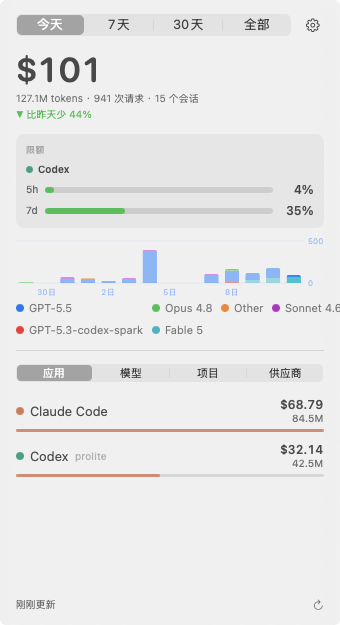
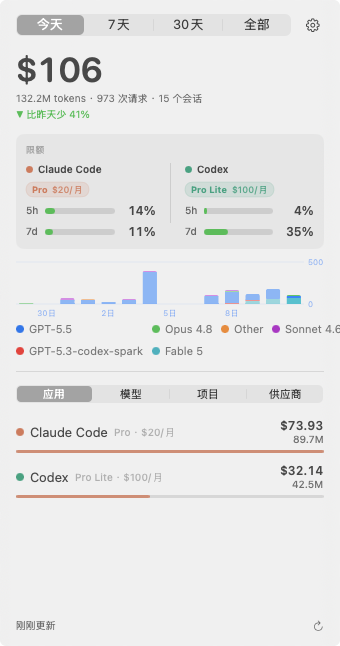
feat: subscription plan badges — Claude (Pro/Max) + Codex (Go/Plus/Pro Lite/Pro) tier & price next to each app; Codex tier from local auth.json JWT; v1.3.0

diff --git a/Sources/Tally/Engine/PlanCatalog.swift b/Sources/Tally/Engine/PlanCatalog.swift
@@ -1,0 +1,43 @@
+import Foundation
+
+/// A subscription tier and its monthly price, for the "what plan are you on"
+/// badge. Prices are USD/month from each vendor's public pricing (2026).
+struct PlanInfo: Sendable, Equatable {
+    let label: String
+    let monthlyUSD: Int?   // nil = custom / unknown (Enterprise etc.)
+}
+
+enum PlanCatalog {
+    /// Claude subscription, from the Keychain OAuth credentials
+    /// (`subscriptionType` + `rateLimitTier`).
+    static func claude(subscriptionType: String?, rateLimitTier: String?) -> PlanInfo? {
+        guard let sub = subscriptionType?.lowercased(), !sub.isEmpty else { return nil }
+        let tier = (rateLimitTier ?? "").lowercased()
+        switch sub {
+        case "free": return PlanInfo(label: "Free", monthlyUSD: 0)
+        case "pro": return PlanInfo(label: "Pro", monthlyUSD: 20)
+        case "max":
+            if tier.contains("20x") { return PlanInfo(label: "Max 20×", monthlyUSD: 200) }
+            if tier.contains("5x") { return PlanInfo(label: "Max 5×", monthlyUSD: 100) }
+            return PlanInfo(label: "Max", monthlyUSD: 100)
+        case "team": return PlanInfo(label: "Team", monthlyUSD: 30)
+        case "enterprise": return PlanInfo(label: "Enterprise", monthlyUSD: nil)
+        default: return PlanInfo(label: sub.capitalized, monthlyUSD: nil)
+        }
+    }
+
+    /// ChatGPT / Codex plan, from the id_token's `chatgpt_plan_type`.
+    static func codex(planType: String?) -> PlanInfo? {
+        guard let p = planType?.lowercased(), !p.isEmpty, p != "unknown" else { return nil }
+        switch p {
+        case "free": return PlanInfo(label: "Free", monthlyUSD: 0)
+        case "go": return PlanInfo(label: "Go", monthlyUSD: 8)
+        case "plus": return PlanInfo(label: "Plus", monthlyUSD: 20)
+        case "prolite", "pro_lite", "pro-lite": return PlanInfo(label: "Pro Lite", monthlyUSD: 100)
+        case "pro": return PlanInfo(label: "Pro", monthlyUSD: 200)
+        case "business", "team": return PlanInfo(label: "Business", monthlyUSD: 30)
+        case "enterprise": return PlanInfo(label: "Enterprise", monthlyUSD: nil)
+        default: return PlanInfo(label: p.capitalized, monthlyUSD: nil)
+        }
+    }
+}

diff --git a/Sources/Tally/Views/PopoverView.swift b/Sources/Tally/Views/PopoverView.swift
@@ -126,13 +126,15 @@ struct PopoverView: View {
                     .kerning(0.6)
                 HStack(alignment: .top, spacing: 14) {
                     if let claude {
-                        QuotaColumn(name: "Claude Code", colorHex: "#D97757", quota: claude)
+                        QuotaColumn(name: "Claude Code", colorHex: "#D97757",
+                                    quota: claude, plan: store.claudePlan)
                     }
                     if claude != nil && codex != nil {
-                        Divider().frame(height: 52)
+                        Divider().frame(height: 60)
                     }
                     if let codex {
-                        QuotaColumn(name: "Codex", colorHex: "#10A37F", quota: codex)
+                        QuotaColumn(name: "Codex", colorHex: "#10A37F",
+                                    quota: codex, plan: store.codexPlan)
                     }
                 }
             }
@@ -335,26 +337,54 @@ private struct BreakdownRowView: View {
     }
 }
 
-/// One app's rate limits: name header + big 5h and 7d gauges, stacked.
+/// One app's rate limits: name + plan badge header, then big 5h/7d gauges.
 private struct QuotaColumn: View {
     let name: String
     let colorHex: String
     let quota: CodexQuota
+    let plan: PlanInfo?
 
     var body: some View {
+        let tint = Color(hex: colorHex)
         VStack(alignment: .leading, spacing: 6) {
             HStack(spacing: 5) {
                 Circle()
-                    .fill(Color(hex: colorHex))
+                    .fill(tint)
                     .frame(width: 7, height: 7)
                 Text(name)
                     .font(.caption.weight(.semibold))
                     .lineLimit(1)
             }
+            if let plan {
+                PlanBadge(plan: plan, tint: tint)
+            }
             QuotaGauge(label: "5h", percent: quota.primaryPercent)
             QuotaGauge(label: "7d", percent: quota.secondaryPercent)
         }
         .frame(maxWidth: .infinity, alignment: .leading)
+    }
+}
+
+/// "Pro · $20/mo" pill — the quiet flex.
+private struct PlanBadge: View {
+    let plan: PlanInfo
+    let tint: Color
+
+    var body: some View {
+        HStack(spacing: 4) {
+            Text(plan.label)
+                .font(.system(size: 9, weight: .bold))
+            if let price = Formatters.planPrice(plan) {
+                Text(price)
+                    .font(.system(size: 9, weight: .medium))
+                    .opacity(0.85)
+            }
+        }
+        .padding(.horizontal, 6)
+        .padding(.vertical, 2)
+        .foregroundStyle(tint)
+        .background(tint.opacity(0.14), in: Capsule())
+        .overlay(Capsule().stroke(tint.opacity(0.28), lineWidth: 0.5))
     }
 }
 

diff --git a/Sources/Tally/Engine/ClaudeQuotaFetcher.swift b/Sources/Tally/Engine/ClaudeQuotaFetcher.swift
@@ -6,42 +6,59 @@ import Security
 /// Claude Code already stores in the Keychain. This is Tally's only network
 /// call and can be disabled in Settings.
 enum ClaudeQuotaFetcher {
-    static func fetch() async -> CodexQuota? {
-        guard let token = accessToken() else { return nil }
+    /// Returns the live 5h/weekly quota and the subscription plan. The plan is
+    /// available from the stored credentials even when the network call fails.
+    static func fetch() async -> (quota: CodexQuota?, plan: PlanInfo?) {
+        let creds = credentials()
+        let plan = PlanCatalog.claude(subscriptionType: creds?.subscriptionType,
+                                      rateLimitTier: creds?.rateLimitTier)
+        guard let token = creds?.token else { return (nil, plan) }
+
         var request = URLRequest(url: URL(string: "https://api.anthropic.com/api/oauth/usage")!)
         request.timeoutInterval = 10
         request.setValue("Bearer \(token)", forHTTPHeaderField: "Authorization")
         request.setValue("oauth-2025-04-20", forHTTPHeaderField: "anthropic-beta")
         guard let (data, response) = try? await URLSession.shared.data(for: request),
-              (response as? HTTPURLResponse)?.statusCode == 200 else { return nil }
+              (response as? HTTPURLResponse)?.statusCode == 200 else { return (nil, plan) }
 
         struct Usage: Decodable {
             struct Window: Decodable { let utilization: Double? }
             let five_hour: Window?
             let seven_day: Window?
         }
-        guard let usage = try? JSONDecoder().decode(Usage.self, from: data) else { return nil }
-        return CodexQuota(
+        guard let usage = try? JSONDecoder().decode(Usage.self, from: data) else { return (nil, plan) }
+        let quota = CodexQuota(
             primaryPercent: usage.five_hour?.utilization ?? 0,
             secondaryPercent: usage.seven_day?.utilization ?? 0,
             planType: nil,
             asOf: Date()
         )
+        return (quota, plan)
     }
 
     // MARK: - Credentials
 
-    private static func accessToken() -> String? {
+    private struct Credentials {
+        let token: String?
+        let subscriptionType: String?
+        let rateLimitTier: String?
+    }
+
+    private static func credentials() -> Credentials? {
         let json = keychainCredentials() ?? fileCredentials()
         guard let json,
               let creds = try? JSONSerialization.jsonObject(with: json) as? [String: Any],
-              let oauth = creds["claudeAiOauth"] as? [String: Any],
-              let token = oauth["accessToken"] as? String else { return nil }
+              let oauth = creds["claudeAiOauth"] as? [String: Any] else { return nil }
+        var token = oauth["accessToken"] as? String
         if let expiresAt = oauth["expiresAt"] as? Double,
            Date(timeIntervalSince1970: expiresAt / 1000) < Date() {
-            return nil
+            token = nil
         }
-        return token
+        return Credentials(
+            token: token,
+            subscriptionType: oauth["subscriptionType"] as? String,
+            rateLimitTier: oauth["rateLimitTier"] as? String
+        )
     }
 
     private static func keychainCredentials() -> Data? {

diff --git a/Sources/Tally/Engine/CodexAuthReader.swift b/Sources/Tally/Engine/CodexAuthReader.swift
@@ -1,0 +1,34 @@
+import Foundation
+
+/// Reads the Codex plan tier from ~/.codex/auth.json by decoding the
+/// id_token JWT's `chatgpt_plan_type` claim. Purely local, no network.
+enum CodexAuthReader {
+    static func plan() -> PlanInfo? {
+        let url = FileManager.default.homeDirectoryForCurrentUser
+            .appendingPathComponent(".codex/auth.json")
+        guard let data = try? Data(contentsOf: url),
+              let root = try? JSONSerialization.jsonObject(with: data) as? [String: Any]
+        else { return nil }
+
+        var idToken: String?
+        if let tokens = root["tokens"] as? [String: Any] {
+            idToken = tokens["id_token"] as? String
+        } else if let s = root["tokens"] as? String {
+            idToken = s
+        }
+        guard let jwt = idToken else { return nil }
+
+        let parts = jwt.split(separator: ".")
+        guard parts.count >= 2 else { return nil }
+        var b64 = String(parts[1])
+            .replacingOccurrences(of: "-", with: "+")
+            .replacingOccurrences(of: "_", with: "/")
+        while b64.count % 4 != 0 { b64 += "=" }
+
+        guard let payload = Data(base64Encoded: b64),
+              let claims = try? JSONSerialization.jsonObject(with: payload) as? [String: Any],
+              let auth = claims["https://api.openai.com/auth"] as? [String: Any]
+        else { return nil }
+        return PlanCatalog.codex(planType: auth["chatgpt_plan_type"] as? String)
+    }
+}

diff --git a/Sources/Tally/Engine/StatsStore.swift b/Sources/Tally/Engine/StatsStore.swift
@@ -9,6 +9,8 @@ final class StatsStore: ObservableObject {
     @Published var period: Period = .today
     @Published var isRefreshing = false
     @Published var claudeQuota: CodexQuota?
+    @Published var claudePlan: PlanInfo?
+    @Published var codexPlan: PlanInfo?
 
     @AppStorage("refreshInterval") var refreshInterval: Int = 60
     @AppStorage("fetchClaudeQuota") var fetchClaudeQuota: Bool = true
@@ -38,9 +40,9 @@ final class StatsStore: ObservableObject {
         isRefreshing = true
         if fetchClaudeQuota {
             Task { [weak self] in
-                if let quota = await ClaudeQuotaFetcher.fetch() {
-                    self?.claudeQuota = quota
-                }
+                let (quota, plan) = await ClaudeQuotaFetcher.fetch()
+                if let quota { self?.claudeQuota = quota }
+                if let plan { self?.claudePlan = plan }
             }
         }
         Task.detached(priority: .utility) { [indexer, pricingLoaded] in
@@ -53,6 +55,7 @@ final class StatsStore: ObservableObject {
                 await indexer.updatePricing(pricing)
             }
             let snap = await indexer.scan()
+            let codexPlan = CodexAuthReader.plan()
             await MainActor.run { [weak self] in
                 guard let self else { return }
                 self.snapshot = snap
@@ -60,6 +63,7 @@ final class StatsStore: ObservableObject {
                     self.providers = cc.providers
                     self.rollups = cc.rollups
                 }
+                if let codexPlan { self.codexPlan = codexPlan }
                 self.pricingLoaded = true
                 self.isRefreshing = false
             }
@@ -123,15 +127,23 @@ final class StatsStore: ObservableObject {
         }
         var rows: [BreakdownRow] = []
         if let claude = agg["claude"] {
-            rows.append(BreakdownRow(id: "claude", name: "Claude Code", colorHex: "#D97757",
+            rows.append(BreakdownRow(id: "claude", name: "Claude Code",
+                                     detail: planDisplay(claudePlan), colorHex: "#D97757",
                                      cost: claude.cost, tokens: claude.tokens))
         }
         if let codex = agg["codex"] {
             rows.append(BreakdownRow(id: "codex", name: "Codex",
-                                     detail: snapshot.codexQuota?.planType,
-                                     colorHex: "#10A37F", cost: codex.cost, tokens: codex.tokens))
+                                     detail: planDisplay(codexPlan), colorHex: "#10A37F",
+                                     cost: codex.cost, tokens: codex.tokens))
         }
         return rows.sorted { $0.cost > $1.cost }
+    }
+
+    /// "Pro · $20/mo" — localized, for the Apps breakdown subtitle.
+    private func planDisplay(_ plan: PlanInfo?) -> String? {
+        guard let plan else { return nil }
+        guard let price = Formatters.planPrice(plan) else { return plan.label }
+        return "\(plan.label) · \(price)"
     }
 
     func modelRows() -> [BreakdownRow] {

diff --git a/Sources/Tally/Support/Formatters.swift b/Sources/Tally/Support/Formatters.swift
@@ -44,6 +44,13 @@ enum Formatters {
         return version.isEmpty ? display : display + " " + version
     }
 
+    /// Localized monthly price: "$20/mo" / "$20/月", or "Free" / "免费".
+    /// nil when the plan price is unknown (Enterprise/custom).
+    static func planPrice(_ plan: PlanInfo) -> String? {
+        guard let m = plan.monthlyUSD else { return nil }
+        return m == 0 ? L10n.t("Free") : L10n.f("$%d/mo", m)
+    }
+
     static func categoryLabel(_ s: String?) -> String? {
         guard let s, !s.isEmpty else { return nil }
         switch s {

diff --git a/Sources/Tally/Support/L10n.swift b/Sources/Tally/Support/L10n.swift
@@ -28,6 +28,8 @@ enum L10n {
         "All": ("All", "全部"),
         // Tabs
         "Apps": ("Apps", "应用"),
+        "Free": ("Free", "免费"),
+        "$%d/mo": ("$%d/mo", "$%d/月"),
         "Rate Limits": ("Rate Limits", "限额"),
         "Models": ("Models", "模型"),
         "Projects": ("Projects", "项目"),

diff --git a/README.md b/README.md
@@ -28,6 +28,7 @@ Tally is a 100% native SwiftUI menu bar app for macOS (14+, Apple Silicon & Inte
 - **14-day cost chart** — stacked by model, drawn with Swift Charts.
 - **Codex CLI too** — Tally also reads Codex's session rollouts: GPT model usage and estimated cost.
 - **Subscription quota at a glance** — live 5-hour and weekly rate-limit gauges for both Claude (official subscription) and Codex, right in the Apps tab. Claude quota is fetched from Anthropic's usage endpoint with the credentials Claude Code already stores — Tally's only network call, one toggle to turn off. Codex quota comes from local logs.
+- **Plan badge** — your subscription tier and its price sit next to each app: Claude (Free / Pro $20 / Max 5× $100 / Max 20× $200) and Codex/ChatGPT (Free / Go $8 / Plus $20 / Pro Lite $100 / Pro $200). A quiet flex when you share a screenshot — Codex tier reads from local `~/.codex/auth.json`, no prompt.
 - **Bilingual UI** — English / 简体中文 / follow system, switchable in Settings.
 - **Four breakdowns**:
   - **Apps** — Claude Code vs Codex side by side, each with live 5h/7d quota gauges.
@@ -120,6 +121,7 @@ Tally 是一款 100% 原生 SwiftUI 的 macOS 菜单栏应用（macOS 14+，Appl
 - **14 天费用图表** — 按模型堆叠，由 Swift Charts 绘制。
 - **Codex CLI 同样支持** — Tally 也会读取 Codex 的会话日志：GPT 系列模型用量与估算费用。
 - **订阅限额一目了然** — Claude（官方订阅）与 Codex 的 5 小时 / 每周限额进度条，直接显示在"应用"标签页。Claude 限额使用 Claude Code 已保存的凭证查询 Anthropic 官方用量接口——这是 Tally 唯一的网络请求，一个开关即可关闭；Codex 限额来自本地日志。
+- **套餐徽章** — 每个 App 旁边显示你的订阅档位与价格：Claude（免费 / Pro $20 / Max 5× $100 / Max 20× $200）和 Codex/ChatGPT（免费 / Go $8 / Plus $20 / Pro Lite $100 / Pro $200）。分享截图时无形展示——Codex 档位读取本地 `~/.codex/auth.json`，无需授权。
 - **双语界面** — English / 简体中文 / 跟随系统，设置中随时切换。
 - **四种维度拆分**：
   - **应用** — Claude Code 与 Codex 并列对比，各自带实时 5h/7d 限额进度条。